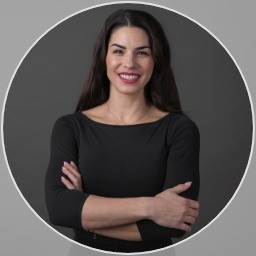
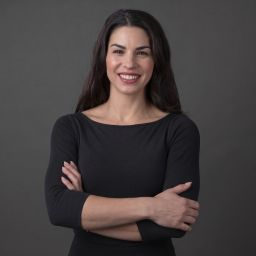
More questions to BTCS quizz

diff --git a/wwwroot/js/admin.js b/wwwroot/js/admin.js
@@ -336,12 +336,16 @@
       meta = !r.answeredPlayers ? 'Nobody answered this one' : `<b>${r.correctPlayers}</b> of ${r.answeredPlayers} got the whole order right${firstNames ? ` · first: ${firstNames}` : ''}`;
       body = ladder(q, r.correctOrder, r);
     } else {
+      // Several players can be equally close with different guesses (2 over and 2 under): each gets their own guess.
       const best = r.closestGuesses[0];
-      const winners = r.closestGuesses.filter(g => best && g.points === best.points).map(g => esc(g.nickname));
-      meta = best ? `Closest: <strong>${winners.join(', ')}</strong> guessed ${fmt(best.guess)} (${offText(best.guess, r.correctNumber)}) · +${best.points}` : 'Nobody guessed this time';
+      const winners = r.closestGuesses.filter(g => best && g.points === best.points);
+      const byGuess = [...new Set(winners.map(g => g.guess))].map(v =>
+        `<strong>${winners.filter(g => g.guess === v).map(g => esc(g.nickname)).join(', ')}</strong> guessed ${fmt(v)} (${offText(v, r.correctNumber)})`);
+      meta = best ? `Closest: ${byGuess.join('; ')} · +${best.points}${winners.length > 1 ? ' each' : ''}` : 'Nobody guessed this time';
       body = numberReveal(q, r);
     }
     stage.innerHTML = layout(s, card(s, nextButton(s), meta) + body);
+    if (q.type === 'ClosestNumber') spreadPins();
     // grow the vote-volume bars once the rows are on screen
     requestAnimationFrame(() => requestAnimationFrame(() =>
       stage.querySelectorAll('.row[data-v] .vol').forEach(v => v.style.width = v.parentElement.dataset.v + '%')));
@@ -368,21 +372,52 @@
     const labels = [];
     for (let v = lo; v <= hi + step / 2; v += step) labels.push(`<span class="lbl" style="left:${at(v)}%">${fmt(v)}</span>`);
     const best = r.closestGuesses[0];
+    // Everyone in the closest list gets their face on the line (the winners, tied ones included, in gold);
+    // faces that would overlap stack upwards. Every other guess is a dot.
+    const pinned = r.closestGuesses.map(g => ({ g, x: at(g.guess), win: g.points === best.points }));
+    const rest = [...r.allGuesses];
+    for (const p of pinned) { const i = rest.indexOf(p.g.guess); if (i >= 0) rest.splice(i, 1); }
     const stack = {};
-    const dots = r.allGuesses.filter((g, i) => !(best && g === best.guess && i === r.allGuesses.indexOf(best.guess))).map(g => {
+    const dots = rest.map(g => {
       const k = Math.round(at(g) / 1.5); stack[k] = (stack[k] || 0) + 1;
       return `<i class="dot" style="left:${at(g)}%;bottom:${40 + stack[k] * 16}px"></i>`;
     }).join('');
-    // the winner's face sits on top of any pile of dots at its spot
-    const pile = best ? Math.min(7, Math.max(0, ...[-1, 0, 1].map(o => stack[Math.round(at(best.guess) / 1.5) + o] || 0))) : 0;
+    // a face sits on top of any pile of dots at its spot
+    const pile = x => Math.min(7, Math.max(0, ...[-1, 0, 1].map(o => stack[Math.round(x / 1.5) + o] || 0)));
+    const pins = pinned.map(p => `<div class="pin ${p.win ? 'win' : 'other'}" style="left:${p.x}%;bottom:${56 + pile(p.x) * 16}px" data-base="${56 + pile(p.x) * 16}">${face({ ...p.g })}<span>${fmt(p.g.guess)}</span></div>`).join('');
     return `<div class="chart">
       <div class="answer-big"><b>${fmt(r.correctNumber)}</b><span>${esc(q.unit || '')}</span></div>
       <ol class="closest">${r.closestGuesses.map(g => `<li>${face({ ...g })}<b>${esc(g.nickname)}</b><span>${fmt(g.guess)}</span>${offTag(g.guess, r.correctNumber)}<em>+${g.points}</em></li>`).join('')}</ol>
       <div class="axis"><div class="line"></div>${labels.join('')}
         <div class="target" style="left:${at(r.correctNumber)}%"></div>${dots}
-        ${best ? `<div class="pin" style="left:${at(best.guess)}%;bottom:${56 + pile * 16}px">${face({ ...best })}<span>${fmt(best.guess)}</span></div>` : ''}
+        ${pins}
       </div></div>`;
   }
+  // Faces on the number line that would cover each other move up a level (the winners come first and stay
+  // lowest). One that still has no room two levels up becomes a plain dot.
+  function spreadPins() {
+    const first = stage.querySelector(".axis .pin");
+    if (!first) return;
+    // still hidden (behind the login): measure once it shows
+    if (!first.getClientRects().length) { setTimeout(() => first.isConnected && spreadPins(), 250); return; }
+    const placed = [];
+    const hit = (a, b) => a.left < b.right - 2 && b.left < a.right - 2 && a.top < b.bottom - 2 && b.top < a.bottom - 2;
+    const roof = stage.querySelector('.closest')?.getBoundingClientRect().bottom ?? -Infinity;   // never over the list
+    for (const pin of stage.querySelectorAll('.axis .pin')) {
+      const base = +pin.dataset.base, step = pin.offsetHeight + 8;
+      let lvl = 0, rect, room = false;
+      for (; lvl <= 2; lvl++) {
+        pin.style.bottom = base + lvl * step + 'px';
+        rect = pin.getBoundingClientRect();
+        if (rect.top < roof) break;
+        if (!placed.some(p => hit(p, rect))) { room = true; break; }
+      }
+      if (!room && pin.classList.contains('win')) { pin.style.bottom = base + 'px'; room = true; rect = pin.getBoundingClientRect(); }
+      if (room) placed.push(rect);
+      else pin.outerHTML = `<i class="dot" style="left:${pin.style.left};bottom:${base - 16}px"></i>`;
+    }
+  }
+
   function niceStep(raw) {
     const p = Math.pow(10, Math.floor(Math.log10(raw || 1)));
     return [1, 2, 2.5, 5, 10].map(m => m * p).find(v => v >= raw) || 10 * p;

diff --git a/wwwroot/css/app.css b/wwwroot/css/app.css
@@ -193,7 +193,7 @@ input { font: inherit; }
 .standings h1 { position: absolute; left: 72px; top: 48px; font-size: 64px; font-weight: 800; color: #fff; letter-spacing: -.02em; }
 .standings h1 span { font-family: var(--num); font-size: 30px; font-weight: 800; color: var(--gold); margin-left: 18px; letter-spacing: 0; }
 .sheet { position: absolute; left: 72px; top: 150px; width: 950px; bottom: 56px; background: var(--card); border-radius: 26px; padding: 22px 34px 26px; box-shadow: 0 18px 34px rgba(0,0,0,.32); display: flex; flex-direction: column; }
-.sheet .head, .sheet .line { display: grid; grid-template-columns: 58px 50px 88px 1fr 112px 132px 140px; align-items: center; column-gap: 12px; }
+.sheet .head, .sheet .line { display: grid; grid-template-columns: 58px 50px 88px 1fr 112px 132px 170px; align-items: center; column-gap: 12px; }
 .sheet .head { font-size: 20px; font-weight: 600; color: var(--ink-soft); padding: 4px 8px 12px; border-bottom: 2px solid var(--track-line); }
 .sheet .head .r { text-align: right; }
 .sheet .line { flex: 1; max-height: 116px; padding: 0 8px; border-bottom: 2px solid #eee9de; animation: rise .6s var(--ease-out) both; }
@@ -697,3 +697,17 @@ input { font: inherit; }
 .pic-wide .book.with-pics .row { min-height: 128px; }
 .pic-wide .row .opic { width: 104px; height: 104px; }
 .abtn .opic { flex: none; width: 84px; height: 84px; border-radius: 12px; object-fit: cover; border: 3px solid #fff; background: #fff; }
+
+/* number reveal: the closest players' faces on the line; the winners (ties included) in gold, the others smaller */
+.pin.win { z-index: 2; }
+.pin.other { z-index: 1; }
+.pin.other .face { width: 46px; height: 46px; border-width: 3px; }
+.pin.other span { background: #fff; font-size: 15px; }
+/* narrow chart beside a portrait picture: smaller faces and a taller line so the closest players fit */
+.q-side .axis { height: 215px; }
+.q-side .axis .target { height: 130px; }
+.q-side .pin .face { width: 46px; height: 46px; border-width: 3px; }
+.q-side .pin.other .face { width: 36px; height: 36px; }
+.q-side .pin span { font-size: 15px; }
+.q-side .pin.other span { font-size: 13px; }
+.sheet .total { white-space: nowrap; }

diff --git a/wwwroot/admin.html b/wwwroot/admin.html
@@ -7,7 +7,7 @@
   <link rel="preconnect" href="https://fonts.googleapis.com">
   <link rel="preconnect" href="https://fonts.gstatic.com" crossorigin>
   <link rel="stylesheet" href="https://fonts.googleapis.com/css2?family=Bricolage+Grotesque:opsz,wght@12..96,500;12..96,600;12..96,800&family=JetBrains+Mono:wght@600;800&display=swap">
-  <link rel="stylesheet" href="/css/app.css?v=64">
+  <link rel="stylesheet" href="/css/app.css?v=70">
 </head>
 <body class="admin-body">
   <form id="login" class="login">
@@ -30,8 +30,8 @@
 
   <script src="https://cdn.jsdelivr.net/npm/@microsoft/signalr@8.0.7/dist/browser/signalr.min.js"></script>
   <script src="https://cdn.jsdelivr.net/npm/qrcode-generator@1.4.4/qrcode.js"></script>
-  <script src="/js/festive.js?v=64"></script>
-  <script src="/js/common.js?v=64"></script>
-  <script src="/js/admin.js?v=64"></script>
+  <script src="/js/festive.js?v=70"></script>
+  <script src="/js/common.js?v=70"></script>
+  <script src="/js/admin.js?v=70"></script>
 </body>
 </html>

diff --git a/wwwroot/game.html b/wwwroot/game.html
@@ -8,7 +8,7 @@
   <link rel="preconnect" href="https://fonts.googleapis.com">
   <link rel="preconnect" href="https://fonts.gstatic.com" crossorigin>
   <link rel="stylesheet" href="https://fonts.googleapis.com/css2?family=Bricolage+Grotesque:opsz,wght@12..96,500;12..96,600;12..96,800&family=JetBrains+Mono:wght@600;800&display=swap">
-  <link rel="stylesheet" href="/css/app.css?v=64">
+  <link rel="stylesheet" href="/css/app.css?v=70">
 </head>
 <body>
   <div id="conn" class="conn-banner hidden" role="status"></div>
@@ -18,8 +18,8 @@
   </main>
 
   <script src="https://cdn.jsdelivr.net/npm/@microsoft/signalr@8.0.7/dist/browser/signalr.min.js"></script>
-  <script src="/js/festive.js?v=64"></script>
-  <script src="/js/common.js?v=64"></script>
-  <script src="/js/game.js?v=64"></script>
+  <script src="/js/festive.js?v=70"></script>
+  <script src="/js/common.js?v=70"></script>
+  <script src="/js/game.js?v=70"></script>
 </body>
 </html>

diff --git a/wwwroot/host.html b/wwwroot/host.html
@@ -8,7 +8,7 @@
   <link rel="preconnect" href="https://fonts.googleapis.com">
   <link rel="preconnect" href="https://fonts.gstatic.com" crossorigin>
   <link rel="stylesheet" href="https://fonts.googleapis.com/css2?family=Bricolage+Grotesque:opsz,wght@12..96,500;12..96,600;12..96,800&family=JetBrains+Mono:wght@600;800&display=swap">
-  <link rel="stylesheet" href="/css/app.css?v=64">
+  <link rel="stylesheet" href="/css/app.css?v=70">
 </head>
 <body>
   <div id="conn" class="conn-banner hidden" role="status"></div>
@@ -23,7 +23,7 @@
   <main id="app" class="phone remote hidden" aria-live="polite"></main>
 
   <script src="https://cdn.jsdelivr.net/npm/@microsoft/signalr@8.0.7/dist/browser/signalr.min.js"></script>
-  <script src="/js/common.js?v=64"></script>
-  <script src="/js/host.js?v=64"></script>
+  <script src="/js/common.js?v=70"></script>
+  <script src="/js/host.js?v=70"></script>
 </body>
 </html>

diff --git a/wwwroot/js/common.js b/wwwroot/js/common.js
@@ -30,7 +30,8 @@ const Qvizz = (() => {
   /** Colour class for an answer piece: A-D red/green/blue/yellow; true/false blue/red. */
   const optClass = (type, i) => type === 'TrueFalse' ? `tf-${i}` : `opt-${i}`;
 
-  const fmt = n => Number(n).toLocaleString('en-US', { maximumFractionDigits: 2 }).replace(/,/g, ' ');
+  // thousands split by a no-break space ("1 079"), so a number never wraps onto two lines
+  const fmt = n => Number(n).toLocaleString('en-US', { maximumFractionDigits: 2 }).replace(/,/g, '\u00a0');
 
   const ICON = {
     check: colour => `<svg viewBox="0 0 20 20" aria-hidden="true"><path d="M4 10.5l4 4 8-9" fill="none" stroke="${colour}" stroke-width="3" stroke-linecap="round" stroke-linejoin="round"/></svg>`,
